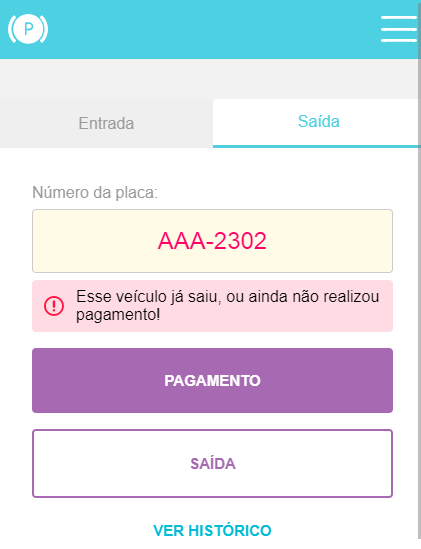
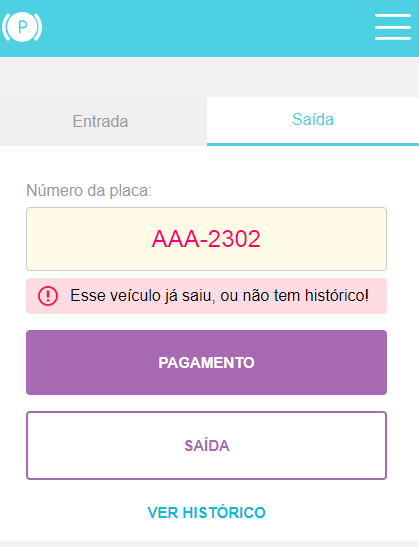
add: readme not-paid image, and change error images descriptions

Changed region(s): [[0.0621, 0.3419, 0.9308, 0.9945], [0.0, 0.0, 1.0, 0.9945], [0.1551, 0.1865, 0.3413, 0.2486]]

diff --git a/README.md b/README.md
@@ -46,27 +46,32 @@ Versões utilizadas:
 
 ###### Algumas imagens demonstrando mensagens de erro
 <details>
-  <summary>Veículo já esta estacionado</summary>
+  <summary>Veículo já esta estacionado ( Ao tentar dar entrada de um carro que ja está estacionado )</summary>
 
   ![Veículo já esta estacionado](./.github/vehicleIn.png)
 </details>
 <details>
-  <summary>Veículo já esta pago</summary>
+  <summary>Veículo já esta pago ( Ao tentar realizar o pagamento, mesmo tendo pago )</summary>
   
   ![Veículo já esta pago](./.github/paid.png)
 </details>
 <details>
-  <summary>Veículo já saiu</summary>
+  <summary>Veículo não esta pago ( Ao tentar realizar a saída sem pagar )</summary>
+  
+  ![Veículo já esta pago](./.github/paid.png)
+</details>
+<details>
+  <summary>Veículo já saiu ( Ao tentar realizar a saída já tendo saido. )</summary>
   
   ![Veículo já saiu](./.github/it-is-not-parked.png)
 </details>
 <details>
-  <summary>Placa inválida</summary>
+  <summary>Placa inválida ( Ao tentar realizar requisição com uma placa invalida )</summary>
   
   ![Placa inválida](./.github/invalid.png)
 </details>
 <details>
-  <summary>Veículo sem histórico de entradas</summary>
+  <summary>Veículo sem histórico de entradas ( Ao tentar ver o histórico de um carro que nunca entrou no estacionamento )</summary>
   
   ![Veículo nunca entrou nesse estacionamento](./.github/nohistory.png)
 </details>
